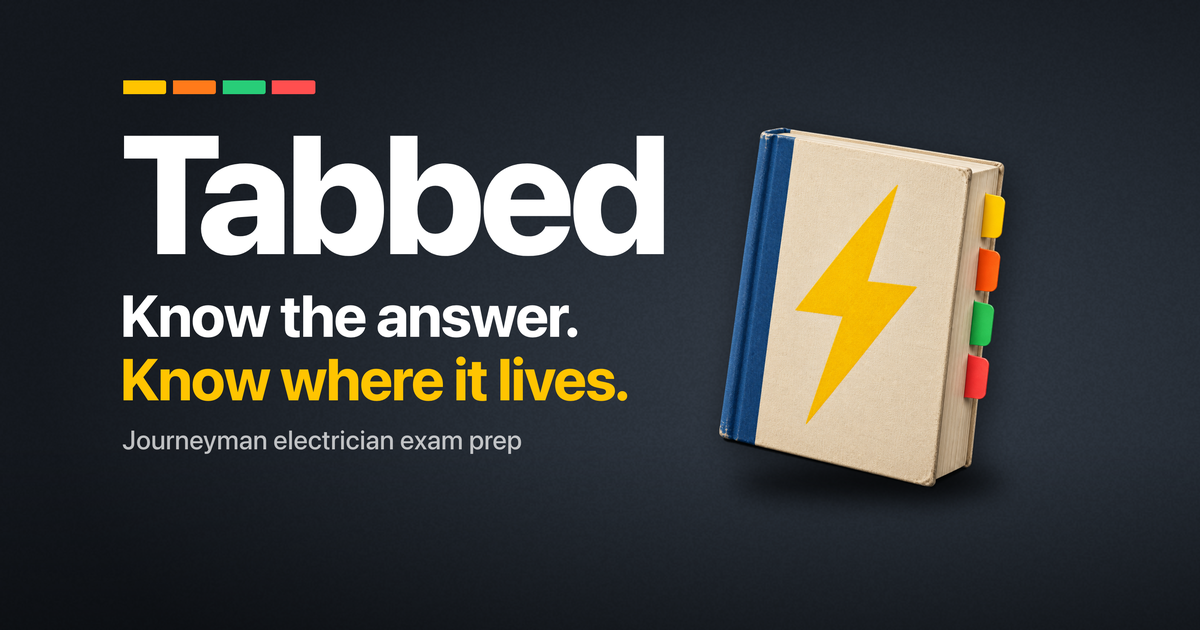
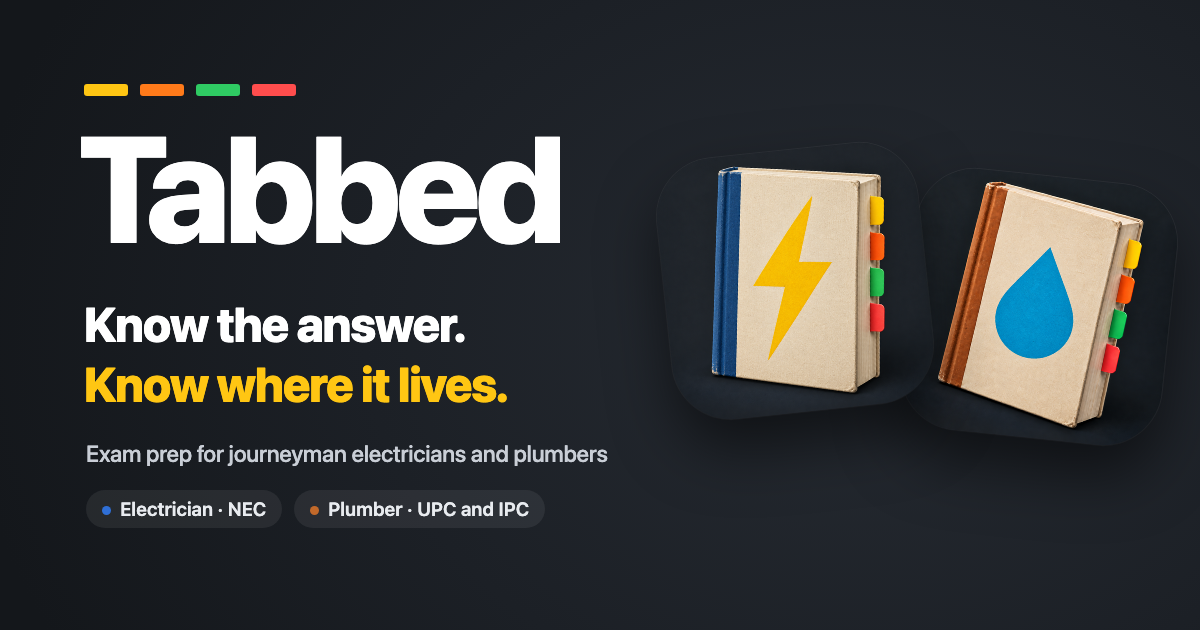
Tabbed share image covers both trades
The link preview (tabbed/og-image.png, 1200 x 630) showed only the electrician book and
said electrician exam prep. It now shows both trade books, says exam prep for journeyman
electricians and plumbers, and names the codes (NEC; UPC and IPC). Source page in
tools/og/tabbed-og.html. Local commit for John's review; not pushed.

diff --git a/tools/og/tabbed-og.html b/tools/og/tabbed-og.html
@@ -1,0 +1,29 @@
+<!-- Source for tabbed/og-image.png (1200 x 630). Render: chrome-headless-shell --headless --hide-scrollbars --force-device-scale-factor=1 --window-size=1200,630 --screenshot=og.png tools/og/tabbed-og.html -->
+<!doctype html><html><head><meta charset="utf-8"><style>
+html,body{margin:0;width:1200px;height:630px;overflow:hidden}
+body{background:radial-gradient(ellipse 900px 700px at 860px 330px,#262b32 0%,#1c2026 55%,#14171b 100%);
+ font-family:-apple-system,BlinkMacSystemFont,"SF Pro Display",system-ui,sans-serif;color:#fff;position:relative}
+.tabs{position:absolute;left:84px;top:84px;display:flex;gap:12px}
+.tabs i{display:block;width:44px;height:12px;border-radius:3px}
+h1{position:absolute;left:78px;top:112px;margin:0;font-size:150px;font-weight:800;letter-spacing:-6px;line-height:1}
+.l1,.l2{position:absolute;left:84px;margin:0;font-size:48px;font-weight:800;letter-spacing:-1.2px;line-height:1}
+.l1{top:300px}.l2{top:360px;color:#FFC613}
+.sub{position:absolute;left:86px;top:440px;margin:0;font-size:23px;font-weight:500;color:#c9ced6;letter-spacing:-.2px}
+.trades{position:absolute;left:86px;top:490px;display:flex;gap:12px}
+.trades span{font-size:19px;font-weight:600;padding:8px 16px;border-radius:999px;background:rgba(255,255,255,.07);color:#e8ebef}
+.trades span b{display:inline-block;width:9px;height:9px;border-radius:50%;margin-right:9px;vertical-align:1px}
+.icon{position:absolute;width:262px;height:262px;border-radius:59px;overflow:hidden;
+ box-shadow:0 30px 60px rgba(0,0,0,.55),0 0 0 1px rgba(255,255,255,.06)}
+.icon img{width:100%;height:100%;display:block}
+.p{left:908px;top:176px;transform:rotate(6deg)}
+.e{left:664px;top:150px;transform:rotate(-6deg)}
+</style></head><body>
+<div class="tabs"><i style="background:#FFC613"></i><i style="background:#FF7A1A"></i><i style="background:#2FCB63"></i><i style="background:#FF4D4D"></i></div>
+<h1>Tabbed</h1>
+<p class="l1">Know the answer.</p>
+<p class="l2">Know where it lives.</p>
+<p class="sub">Exam prep for journeyman electricians and plumbers</p>
+<div class="trades"><span><b style="background:#2F6FD6"></b>Electrician · NEC</span><span><b style="background:#C2692A"></b>Plumber · UPC and IPC</span></div>
+<div class="icon p"><img src="../../tabbed/img/plumber/icon.png"></div>
+<div class="icon e"><img src="../../tabbed/img/icon.png"></div>
+</body></html>
